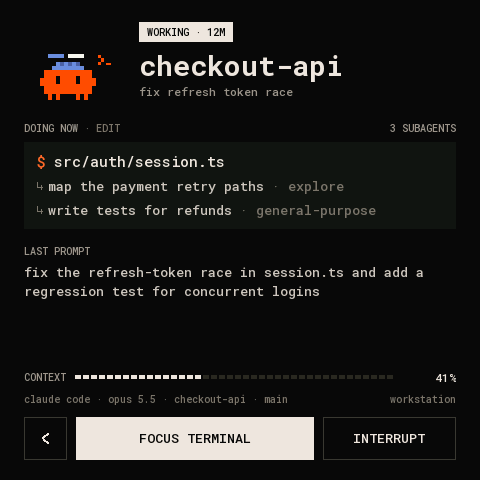
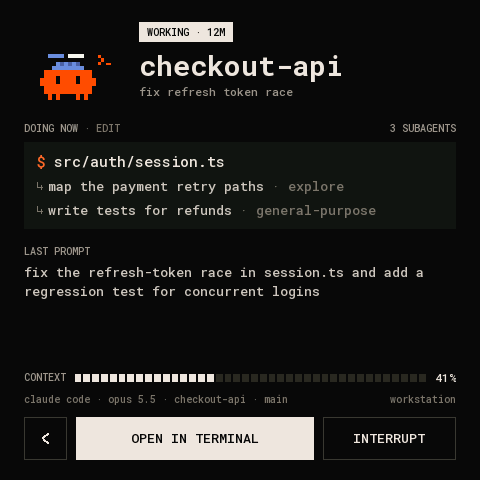
4-inch: one pet size on every tile, a full-height context bar, "open in terminal"
- Grid: every pet is drawn at the tiles' scale. A hat, the legend's flames
  or a bubble that reaches over the tile's top is cut at the tile's edge
  instead of shrinking the whole pet, so no tile shows a smaller pet.
- Agent page: the context bar is as tall as the percentage's digits, on
  their rows, and runs right up to the percentage; orange from 85%, as on
  the desk panel.
- One label for raising the terminal on every screen: "open in terminal"
  ("open in codex" for a Codex app thread); the toast says "opened". The
  free-text hint reads "type the answer at the terminal".

Changed region(s): [[0.1562, 0.7812, 0.9062, 0.8125], [0.2812, 0.9062, 0.5312, 0.9375]]

diff --git a/firmware/panel-core/src/layout_big.h b/firmware/panel-core/src/layout_big.h
@@ -13,13 +13,13 @@
 //           (pet, status chip, hearts and level, name, session); doing now,
 //           or the status and the account; the last prompt, or the last
 //           answer once it has finished; context and where it runs; back,
-//           focus terminal, then interrupt while running, otherwise stop
+//           open in terminal, then interrupt while running, otherwise stop
 //           ("again" arms it for 3 s), or resume and remove once exited. An
 //           egg ready to hatch sits in a box that says "tap to hatch" (HatchPet).
 //   prompt  a permission on orange, a question dark with an orange edge: the
 //           pet boxed with its "?", what it asks, the command, every answer as
 //           a row (tap one to choose it, tap it again or send to send); back
-//           and focus terminal at the foot
+//           and open in terminal at the foot
 //   states  waiting for approval, connecting, deck offline, no agents; on
 //           Wi-Fi, where it is (joining, connecting, wrong password, network
 //           not found, deck not reachable, certificate rejected)
@@ -29,7 +29,7 @@
 //           the same grid, the deck's spot n in cell n; its mark sits at the left of the
 //           page bars (whose row then stays with one page too)
 //
-// Back: swipe right, or BOOT. Pure C++ (no Arduino).
+// Back: the back button, a swipe right, or BOOT. Pure C++ (no Arduino).
 #include <math.h>
 #include <stdio.h>
 #include <stdlib.h>
@@ -200,13 +200,13 @@ static inline int bigBarAt(const BigBars& b, int x) {
 //               column; doing now with the command and two subagents in a box, or
 //               the status with the account on the right; the last prompt, or
 //               the last answer once it has finished; context; where it runs;
-//               back, focus terminal, and interrupt, stop, resume or remove
+//               back, open in terminal, and interrupt, stop, resume or remove
 //   permission  the page orange: the head with the pet boxed, "it asks", the
 //               question, the command, and every answer as a row (tap one to
 //               choose it, tap it again to send); back, "or answer at the
-//               terminal" and focus terminal
+//               terminal" and open in terminal
 //   question    dark with an orange edge: the head, the question, its detail,
-//               the answers as rows; back, send and focus terminal
+//               the answers as rows; back, send and open in terminal
 
 namespace big_ui {   // the desk panel's numbers at 2/3
 constexpr int kPadX = 24, kPadTop = 21, kPadBot = 20;      // the page's padding (36, 32, 30)
@@ -216,7 +216,7 @@ constexpr int kCell = 4;                                    // pet cells (6)
 constexpr int kHeadGap = 15;                                // the zone to the column (22)
 constexpr int kChipH = 20;                                  // (30)
 constexpr int kBtnH = 43, kBtnGap = 9, kSideW = 133;        // buttons (64, 14, 200)
-constexpr int kFocusW = 173, kLinkH = 35;                   // focus terminal beside send (260); a permission's back (52)
+constexpr int kFocusW = 173, kLinkH = 35;                   // open in terminal beside send (260); a permission's back (52)
 constexpr int kRowH = 49, kRowGap = 7;                      // a question's answer rows (74, 10)
 constexpr int kPermRowH = 43;                               // a permission's answer rows (64)
 constexpr int kRadius = 17;                                 // the page's corners (26)
@@ -264,7 +264,7 @@ struct BigButtons {
   Rect r[4];
 };
 
-// The card's: back, then the wide one (focus terminal; resume or remove once
+// The card's: back, then the wide one (open in terminal; resume or remove once
 // it has exited), then interrupt while it runs, stop while it doesn't. What
 // the scope allows: focus and interrupt need act, stop, resume and remove admin.
 static inline BigButtons bigCardButtons(const BigSpec& S, const Agent& a, DeckScope scope) {
@@ -345,7 +345,7 @@ struct BigPrompt {
   int n;
   Rect opt[kMaxOptions];
   bool sub;                    // the rows have room for an answer's second line
-  BigButtons btn;              // back, then send and focus terminal (focus terminal as a link on orange)
+  BigButtons btn;              // back, then send and open in terminal (open in terminal as a link on orange)
   int orY;                     // a permission's "or answer at the terminal"
 };
 
@@ -372,15 +372,15 @@ static inline BigPrompt bigPrompt(const BigSpec& S, const Agent& a) {
   // The foot.
   const int foot = S.h - kPadBot;
   p.n = a.optCount;
-  if (p.orange) {   // back, "or answer at the terminal", and focus terminal as a link
+  if (p.orange) {   // back, "or answer at the terminal", and open in terminal as a link
     p.btn.kind[0] = Hit::Back;
     p.btn.r[0] = Rect{kPadX, foot - kLinkH, kLinkH, kLinkH};
-    const int lw = textW(FONT_XS, "FOCUS TERMINAL") + 12;
+    const int lw = textW(FONT_XS, "OPEN IN TERMINAL") + 12;
     p.btn.kind[1] = Hit::Focus;
     p.btn.r[1] = Rect{S.w - kPadX - lw, foot - kLinkH, lw, kLinkH};
     p.btn.n = 2;
     p.orY = foot - kLinkH + (kLinkH - kLineXS) / 2;
-  } else {          // back, send (with answers), focus terminal
+  } else {          // back, send (with answers), open in terminal
     const int by = foot - kBtnH, x = kPadX + kBtnH + kBtnGap;
     p.btn.kind[p.btn.n] = Hit::Back;
     p.btn.r[p.btn.n++] = Rect{kPadX, by, kBtnH, kBtnH};
@@ -498,7 +498,7 @@ static inline DeckCommand bigTap(PanelUi& ui, const Fleet& f, const PanelHit& h,
     case Hit::Focus:
       if (!canAct(scope)) { uiToast(ui, "view only: needs scope act", ms); break; }
       out = commandFor(DeckCmd::Focus, f.agents[h.agent]);
-      uiToast(ui, "focused", ms, 1200);
+      uiToast(ui, "opened", ms, 1200);
       break;
     case Hit::Interrupt:
       out = commandFor(DeckCmd::Interrupt, f.agents[h.agent]);
@@ -845,6 +845,23 @@ static inline void petFit(Canvas& c, const Rect& box, int most, const Agent& a, 
   drawPetCells(c, x, box.y + box.h - e.y1 * s, s, a, pose, ms, bubble);
 }
 
+// A tile's pet: always at the tiles' one scale, so every pet on the deck is
+// the same size. It stands on the box's foot, centred and pushed in from the
+// sides; whatever reaches over the tile's top (a tall hat, the legend's
+// flames, a bubble) is cut at the tile's edge, never by shrinking the pet.
+static inline void petTile(Canvas& c, const Rect& tileR, const Rect& box, int s, const Agent& a, Pose pose, uint32_t ms,
+                           bool bubble) {
+  const PetExtent e = petExtent(a, pose, bubble);
+  int x = box.x + box.w / 2 - 8 * s;
+  if (x + e.x0 * s < tileR.x) x = tileR.x - e.x0 * s;
+  if (x + e.x1 * s > tileR.x + tileR.w) x = tileR.x + tileR.w - e.x1 * s;
+  Canvas in = c;                                     // the same pixels, rows of the tile only
+  if (in.top < tileR.y) in.top = tileR.y;
+  if (in.h > tileR.y + tileR.h) in.h = tileR.y + tileR.h;
+  if (in.top >= in.h) return;
+  drawPetCells(in, x, box.y + box.h - e.y1 * s, s, a, pose, ms, bubble);
+}
+
 // AgentTile, laid out on the deck's 170 px design cell and scaled to the real one.
 static inline void tile(Canvas& c, const BigSpec& S, const Theme& T, const Agent& a, const Rect& r, uint32_t ms,
                         int64_t now, bool pressed) {
@@ -876,8 +893,8 @@ static inline void tile(Canvas& c, const BigSpec& S, const Theme& T, const Agent
   // The critter: its body where the deck draws it (92 px wide from y 30; the
   // feet at 30 + 12/13 of its height), at the nearest whole scale.
   const int s = S.tileScale;
-  if (a.pet.has) {                                   // its pet: all it reaches inside the tile, over the name
-    petFit(c, Rect{ox + d(6), oy + d(8), d(158), d(96)}, s, a, poseOf(a, now), ms, true);   // (fit, 158 x 96 at 6, 8)
+  if (a.pet.has) {                                   // its pet: one size on every tile, over the name
+    petTile(c, r, Rect{ox + d(6), oy + d(8), d(158), d(96)}, s, a, poseOf(a, now), ms, true);   // (158 x 96 at 6, 8)
   } else {
     const float unit = 92.f / 18.f;                  // the deck's critter: px per sprite unit
     const int feet = oy + d(30 + 12 * unit);
@@ -1140,11 +1157,38 @@ static inline int hook(Canvas& c, int x, int y, int lineH, uint16_t col) {
   return 12;
 }
 
-// The context bar (_ContextSegments): 40 segments, 2 px apart.
-static inline void segs(Canvas& c, const Theme& T, int x, int y, int w, int pct, uint16_t off) {
-  const int n = 40, gap = 2, sw = (w - (n - 1) * gap) / n;
+// The one label for raising the agent's terminal, the same on every screen
+// and every deck: "open in terminal" ("open in codex" for a Codex app
+// thread). Pressed, the toast says "opened".
+static inline const char* openLabel(const Agent& a) { return a.external ? "open in codex" : "open in terminal"; }
+
+// The rows a font's digits fill in its cell (top, height): where "42%" is ink.
+static inline void digitRows(const Font& f, int& top, int& h) {
+  uint16_t px[32 * 40];
+  if (f.cellW > 32 || f.cellH > 40) { top = 0; h = f.cellH; return; }
+  Canvas c{px, f.cellW, f.cellH};
+  c.fill(0);
+  c.text(f, 0, 0, "0", 0xFFFF);
+  int y0 = f.cellH, y1 = -1;
+  for (int y = 0; y < f.cellH; y++)
+    for (int x = 0; x < f.cellW; x++)
+      if (px[y * f.cellW + x]) { if (y < y0) y0 = y; if (y > y1) y1 = y; }
+  if (y1 < y0) { top = 0; h = f.cellH; return; }
+  top = y0;
+  h = y1 - y0 + 1;
+}
+
+// The context bar (_ContextSegments): 40 segments, 2 px apart, from x to
+// x + w exactly (the odd pixels spread over the segments), `h` tall; orange
+// from 85%.
+static inline void segs(Canvas& c, const Theme& T, int x, int y, int w, int h, int pct, uint16_t off) {
+  const int n = 40, gap = 2;
   const int on = (pct * n + 50) / 100;
-  for (int i = 0; i < n; i++) c.rect(x + i * (sw + gap), y, sw, 4, i < on ? T.ink : off);
+  const uint16_t ink = pct >= 85 ? T.accent : T.ink;
+  for (int i = 0; i < n; i++) {
+    const int sx = x + i * (w + gap) / n, ex = x + (i + 1) * (w + gap) / n - gap;
+    c.rect(sx, y, ex - sx, h, i < on ? ink : off);
+  }
 }
 
 // "■ personal": a square in the account's colour, then its name; right-aligned
@@ -1272,7 +1316,11 @@ static inline void card(Canvas& c, const BigSpec& S, const Theme& T, const Panel
     snprintf(buf, sizeof buf, a.ctxWindow ? "%d%%" : "--", ctxPct(a));
     const int pw = textW(FONT_S, buf);
     lineAt(c, FONT_S, kLineXS, right - pw, g.ctxY, buf, T.ink);
-    segs(c, T, kPadX + lw + 9, g.ctxY + (kLineXS - 4) / 2, w - lw - 9 - pw - 9, a.ctxWindow ? ctxPct(a) : 0, kSegOff);
+    // As tall as the percentage's digits, on their rows, up to 9 px before it.
+    int dt, dh;
+    digitRows(FONT_S, dt, dh);
+    segs(c, T, kPadX + lw + 9, g.ctxY + (kLineXS - FONT_S.cellH) / 2 + dt, w - lw - 9 - pw - 9, dh, a.ctxWindow ? ctxPct(a) : 0,
+         kSegOff);
     buf[0] = '\0';
     const char* tool = a.tool == ToolKind::Claude ? "claude code" : a.tool == ToolKind::Codex ? "codex" : a.tool == ToolKind::Gemini ? "gemini" : "";
     const char* parts[4] = {tool, a.model, a.folder, a.branch};
@@ -1295,7 +1343,7 @@ static inline void card(Canvas& c, const BigSpec& S, const Theme& T, const Panel
     switch (b.kind[i]) {
       case Hit::Back: button(c, r, "", pressed ? T.ink : T.bg, pressed ? T.bg : T.ink, pressed ? T.ink : kRule, true); break;
       case Hit::Focus:
-        button(c, r, a.unseen && a.status == Status::Idle ? "review in terminal" : "focus terminal", pressed ? T.accent : T.ink, T.bg,
+        button(c, r, openLabel(a), pressed ? T.accent : T.ink, T.bg,
                pressed ? T.accent : T.ink);
         break;
       case Hit::Resume: button(c, r, "resume", pressed ? T.accent : T.ink, T.bg, pressed ? T.accent : T.ink); break;
@@ -1395,14 +1443,14 @@ static inline void prompt(Canvas& c, const BigSpec& S, const Theme& T, const Pan
         break;
       }
       default:
-        if (orange) {   // a link: "FOCUS TERMINAL", underlined
+        if (orange) {   // a link: "OPEN IN TERMINAL", underlined
           if (pressed) c.rect(r.x, r.y, r.w, r.h, T.bg);
           const uint16_t col = pressed ? T.accent : T.bg;
-          const int tw = upperW(FONT_XS, "focus terminal"), ty = r.y + (r.h - FONT_XS.cellH) / 2;
-          upperAt(c, FONT_XS, r.x + (r.w - tw) / 2, ty, "focus terminal", col);
+          const int tw = upperW(FONT_XS, openLabel(a)), ty = r.y + (r.h - FONT_XS.cellH) / 2;
+          upperAt(c, FONT_XS, r.x + (r.w - tw) / 2, ty, openLabel(a), col);
           c.rect(r.x + (r.w - tw) / 2, ty + FONT_XS.cellH, tw, 2, col);
         } else {
-          button(c, r, "focus terminal", pressed ? T.ink : T.bg, pressed ? T.bg : T.ink, pressed ? T.ink : kRule);
+          button(c, r, openLabel(a), pressed ? T.ink : T.bg, pressed ? T.bg : T.ink, pressed ? T.ink : kRule);
         }
     }
   }
@@ -1410,7 +1458,7 @@ static inline void prompt(Canvas& c, const BigSpec& S, const Theme& T, const Pan
     const int x = p.btn.r[0].x + p.btn.r[0].w + 9;
     upperAt(c, FONT_XS, x, p.orY, "or answer at the terminal", ink, p.btn.r[1].x - 8 - x);
   } else if (!p.n) {
-    upperAt(c, FONT_XS, kPadX, p.btn.r[0].y - 9 - kLineXS, "type your answer at the terminal", kMuted, w);
+    upperAt(c, FONT_XS, kPadX, p.btn.r[0].y - 9 - kLineXS, "type the answer at the terminal", kMuted, w);
   }
 }
 

diff --git a/firmware/panel-core/tests/test_big.cpp b/firmware/panel-core/tests/test_big.cpp
@@ -3,6 +3,7 @@
 // prompt layout (choose, then send), and every screen inside the frame.
 #include <assert.h>
 
+#include <algorithm>
 #include <vector>
 
 #include "../sim/fixture.h"
@@ -251,7 +252,7 @@ int main() {
     p = bigPrompt(S, w);
     assert(p.n == 6 && p.opt[0].y > p.titleY && p.opt[5].y + p.opt[5].h <= p.btn.r[0].y);
     for (int i = 0; i < 6; i++) assert(p.opt[i].h >= kLineL + 4);
-    // Free text: no answers, focus terminal is the wide button.
+    // Free text: no answers, open in terminal is the wide button.
     w.optCount = 0;
     p = bigPrompt(S, w);
     assert(p.btn.n == 2 && p.btn.kind[1] == Hit::Focus && p.btn.r[1].x + p.btn.r[1].w == S.w - kPadX);
@@ -281,12 +282,16 @@ int main() {
     assert(!a.lastIsAnswer && !strcmp(a.lastPrompt, "fix it"));
   }
 
-  // ---- a pet fits its tile: all it can reach in its pose, over its motion, inside the tile
+  // ---- every pet on the grid is the same size: the tiles' scale, never
+  // shrunk to fit; what reaches over the tile's top is cut at the tile
   {
     static DeckFleet d;
     assert(fixture::load(FIXTURE, d));
     const BigGrid g = bigGrid(S, 1);
-    for (int stage = 0; stage < 7; stage++) {
+    const Rect cell = bigCell(g, 0);
+    const uint16_t GUARD = 0x1234;
+    std::vector<uint16_t> mem(S.w * S.h, GUARD);
+    for (int stage = 1; stage < 7; stage++) {
       for (Pose pose : {Pose::Idle, Pose::Wait, Pose::Bash, Pose::Celebrate, Pose::Hungry, Pose::Delegate}) {
         Agent a = d.fleet.agents[0];
         a.pet.has = true;
@@ -294,14 +299,19 @@ int main() {
         a.pet.level = (uint8_t)(stage * 8);
         a.hat = 3;
         a.pet.hat = stage >= 2 ? 2 : 0;
-        const big_detail::PetExtent e = big_detail::petExtent(a, pose, true);
-        const Rect cell = bigCell(g, 0);
-        const float u = cell.w / 170.f;
-        const int bw = (int)lroundf(158 * u), bh = (int)lroundf(96 * u);
-        int s = S.tileScale;
-        if (bw / (e.x1 - e.x0) < s) s = bw / (e.x1 - e.x0);
-        if (bh / (e.y1 - e.y0) < s) s = bh / (e.y1 - e.y0);
-        assert(s >= 1 && (e.y1 - e.y0) * s <= bh && (e.x1 - e.x0) * s <= bw);
+        a.subagents = 0;
+        std::fill(mem.begin(), mem.end(), GUARD);
+        Canvas c{mem.data(), S.w, S.h};
+        big_detail::petTile(c, cell, Rect{cell.x + 4, cell.y + 5, cell.w - 8, 64}, S.tileScale, a, pose, 0, true);
+        int x0 = S.w, x1 = -1;
+        for (int y = 0; y < S.h; y++)
+          for (int x = 0; x < S.w; x++) {
+            if (mem[y * S.w + x] == GUARD) continue;
+            assert(y >= cell.y && y < cell.y + cell.h);   // nothing over the tile's top or under its foot
+            if (x < x0) x0 = x;
+            if (x > x1) x1 = x;
+          }
+        assert(x1 - x0 + 1 >= 14 * S.tileScale);   // drawn at the tiles' scale (a body is 14+ cells wide)
       }
     }
   }
@@ -452,7 +462,7 @@ int main() {
           assert(a == b);
         }
   }
-  // ---- the 4"'s card is the big panel's (the desk panel's detail, its "focus terminal" button), not
+  // ---- the 4"'s card is the big panel's (the desk panel's detail, its "open in terminal" button), not
   // the small boards' card that a 480 x 480 SquareSpec would draw
   {
     static DeckFleet d;

diff --git a/firmware/devices/waveshare-touch-lcd-4/README.md b/firmware/devices/waveshare-touch-lcd-4/README.md
@@ -38,7 +38,7 @@ Flutter UI with every size times 2/3 (`layout_big.h`).
 
   A row of sharp buttons underneath:
   - **back** to the deck;
-  - **focus terminal**;
+  - **open in terminal**;
   - **interrupt** while the agent runs, **stop** while it doesn't (it arms on the first tap:
     "again", for 3 s);
   - once the agent has exited, **resume** and **remove**.
@@ -48,7 +48,7 @@ Flutter UI with every size times 2/3 (`layout_big.h`).
 - **Prompts.** A permission turns the screen orange; a question stays dark with an orange edge. Both
   show the pet in its box with its "?", what it asks, the command (a permission) or the question's
   detail, and every answer as a row. Tap one to choose it (the primary is chosen to start with), tap
-  it again to send; on a question **send** sends the chosen one. Back and **focus terminal** sit at
+  it again to send; on a question **send** sends the chosen one. Back and **open in terminal** sit at
   the foot.
 - **Back.** Swipe right, or press BOOT.
 - **The board's panel.** Pull down from the top edge of any screen (a tap there still opens the tile
